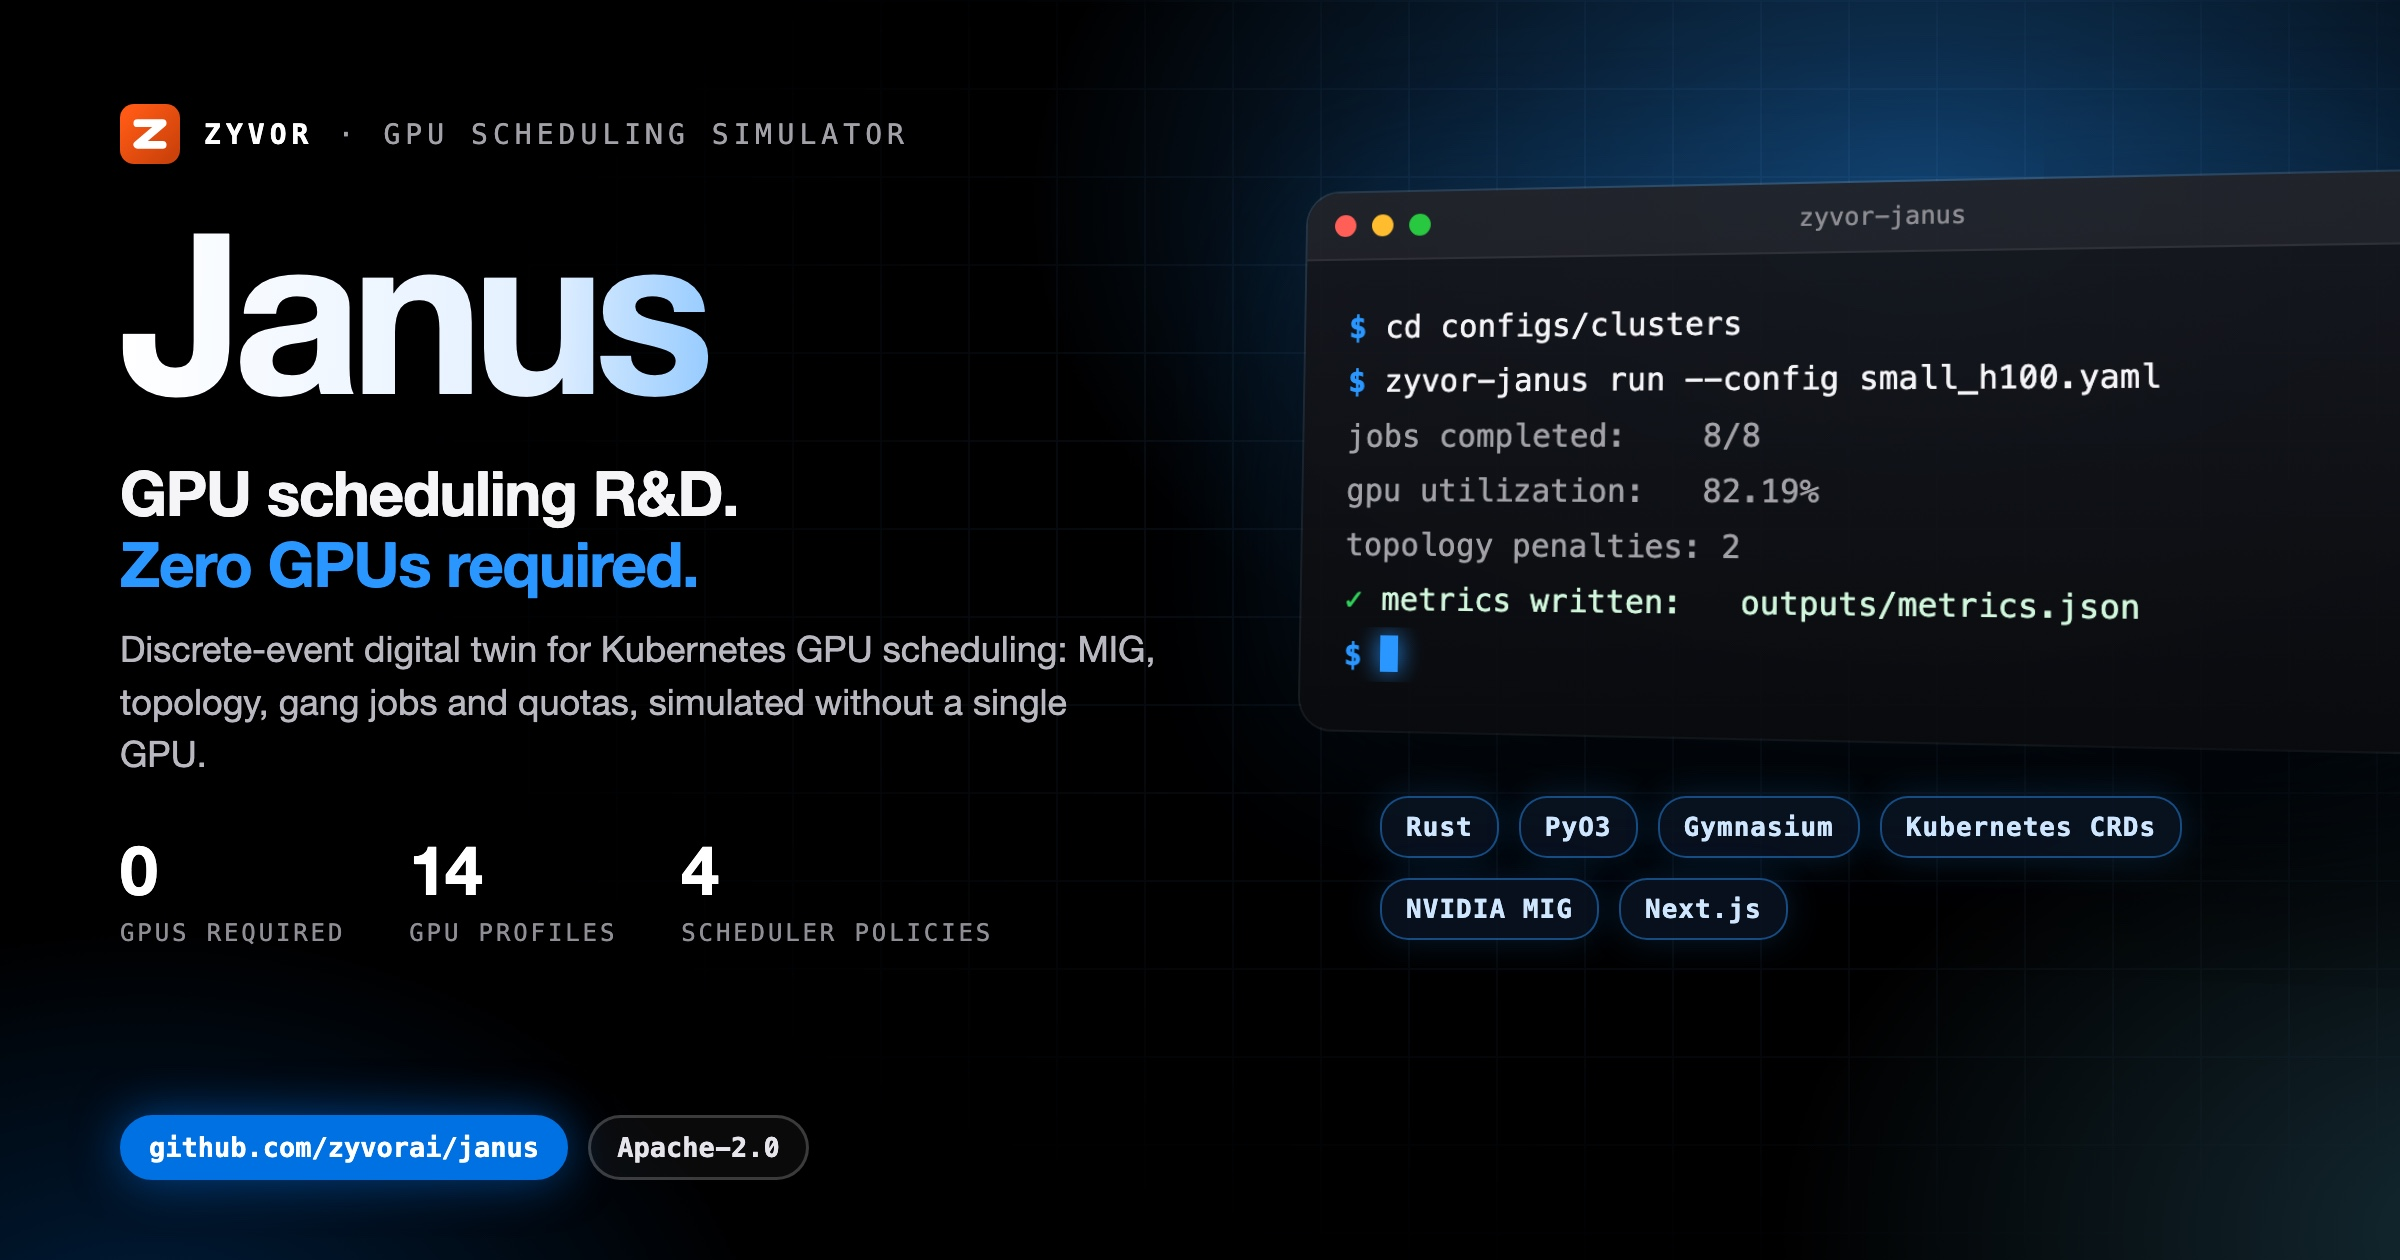
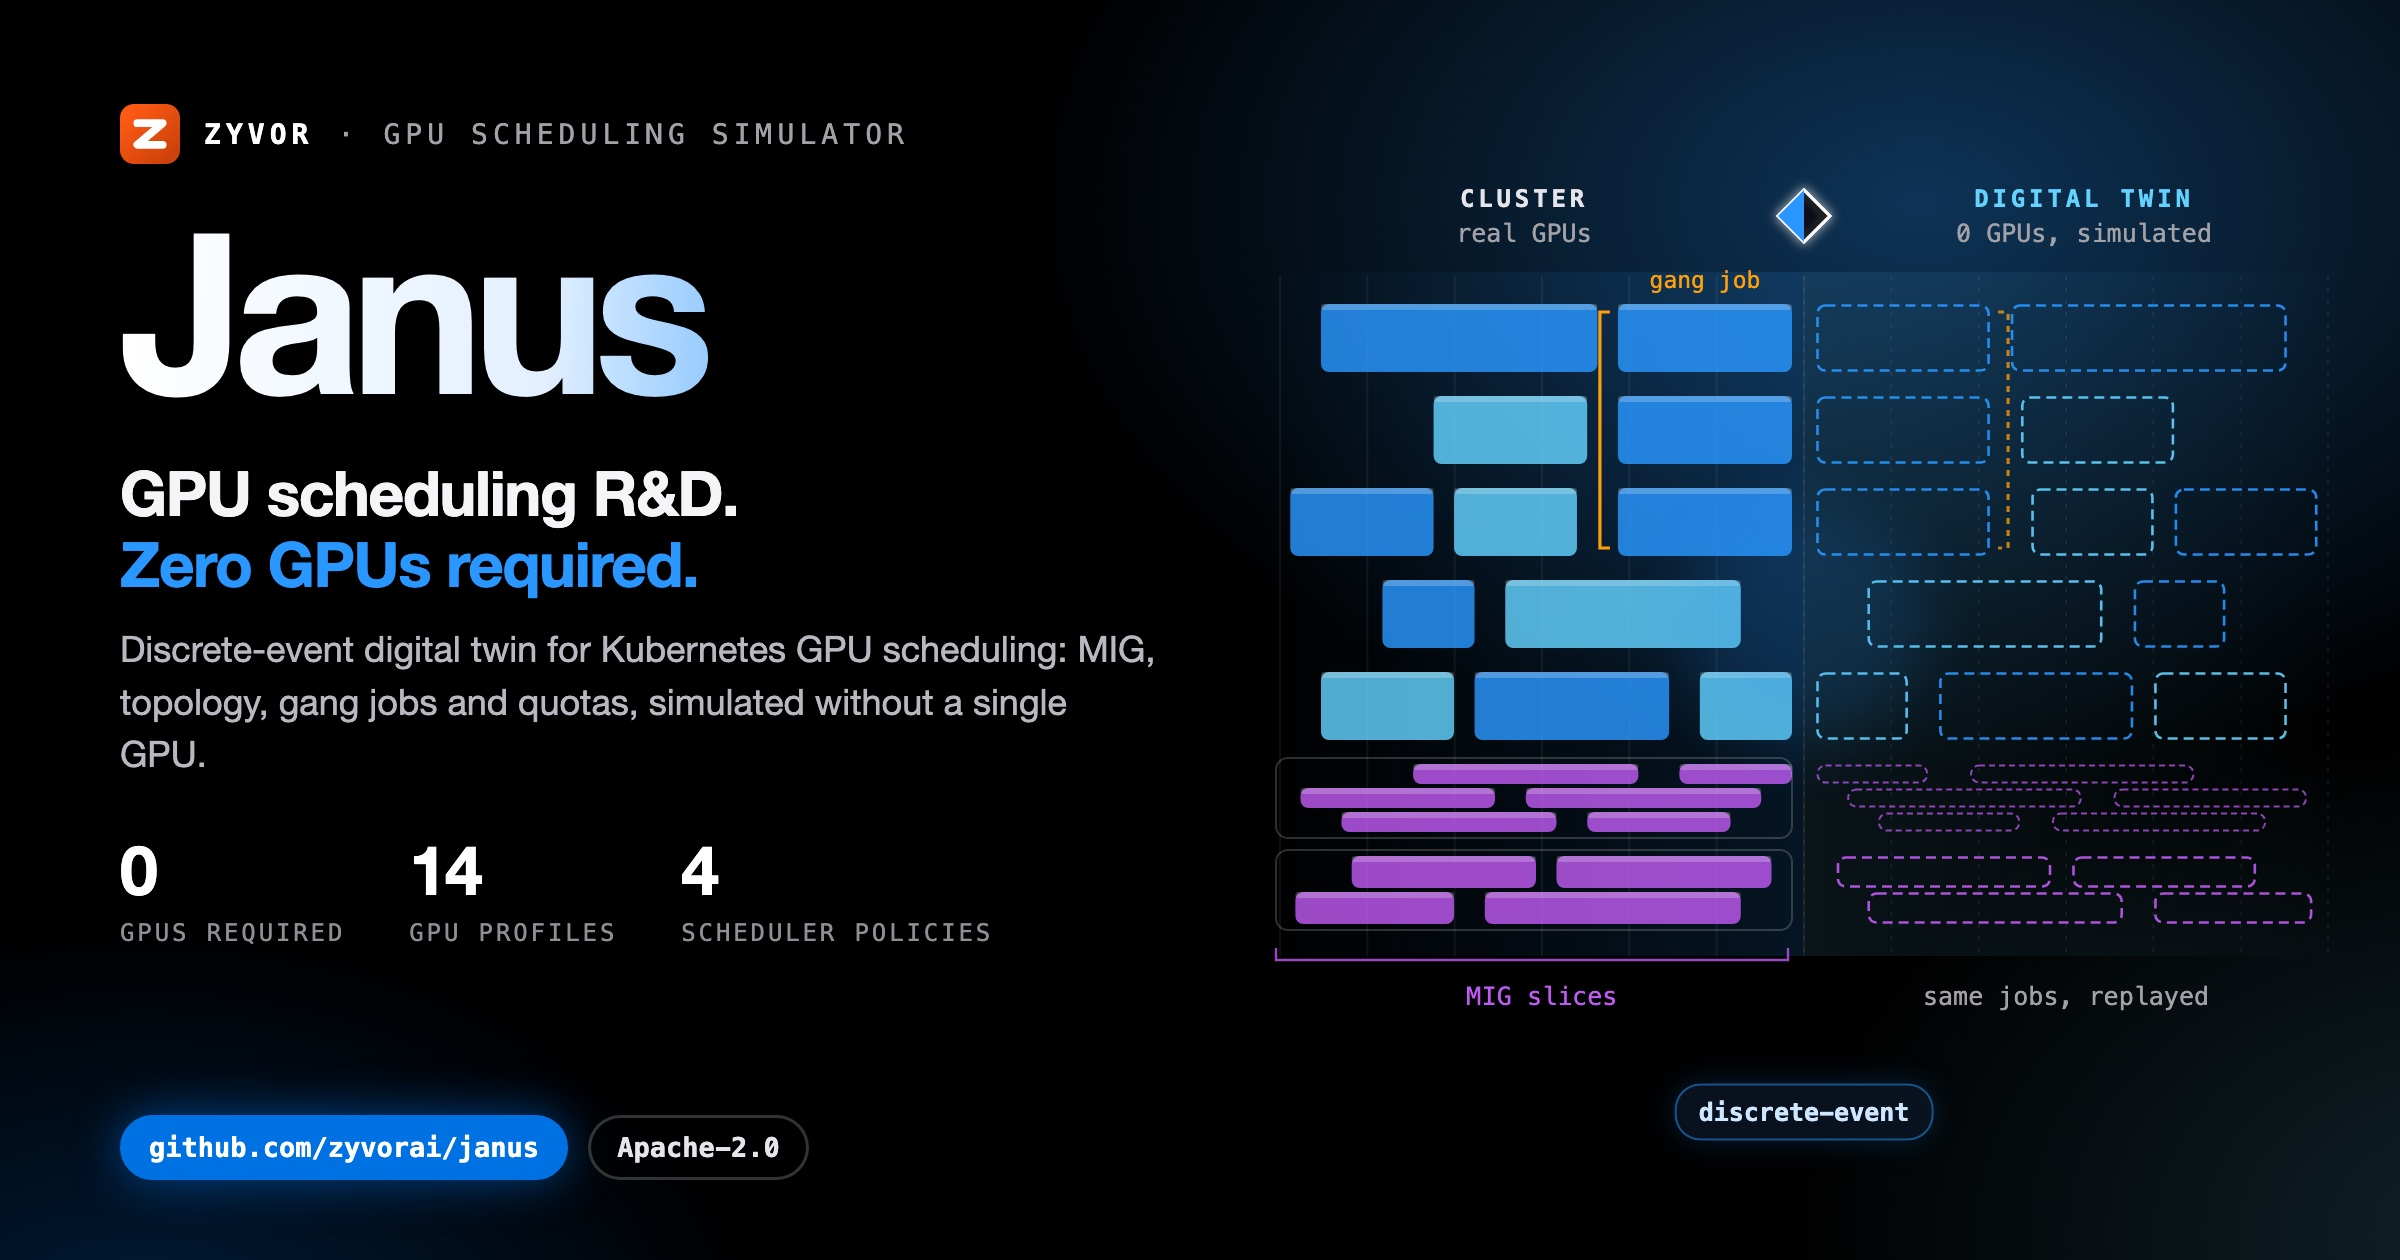
docs(social): unique illustrated hero card
Replace the shared terminal-window art with a motif drawn for this project;
same verified copy and stats on the left.

diff --git a/docs/social/janus-hero-dark.html b/docs/social/janus-hero-dark.html
@@ -8,58 +8,47 @@
   Build: ./docs/social/build-hero-dark.sh  ->  janus-hero-dark.jpg (2400x1260)
 -->
 <style>
-  :root { --blue:#0071e3; --signal:#2997ff; --cyan:#64d2ff; --green:#30d158; --amber:#ff9f0a;
+  :root { --blue:#0071e3; --signal:#2997ff; --cyan:#64d2ff; --green:#30d158; --amber:#ff9f0a; --red:#ff453a; --violet:#bf5af2;
     --sans:'SF Pro Display','Helvetica Neue',Helvetica,Arial,sans-serif; --mono:'SF Mono',Menlo,Consolas,monospace; }
   * { box-sizing:border-box; }
   html,body { margin:0; padding:0; }
   body { width:1200px; height:630px; overflow:hidden; color:#f5f5f7; font-family:var(--sans); position:relative; background:#000; }
   .aurora { position:absolute; inset:0;
-    background:radial-gradient(720px 460px at 80% 16%, rgba(41,151,255,.40), transparent 62%),
-               radial-gradient(600px 420px at 104% 98%, rgba(100,210,255,.20), transparent 60%),
+    background:radial-gradient(720px 460px at 80% 16%, rgba(41,151,255,.34), transparent 62%),
+               radial-gradient(600px 420px at 104% 98%, rgba(100,210,255,.16), transparent 60%),
                radial-gradient(520px 380px at 6% 110%, rgba(0,113,227,.28), transparent 60%); }
-  .grid { position:absolute; inset:0; opacity:.09;
-    background-image:linear-gradient(rgba(120,180,255,.9) 1px,transparent 1px),linear-gradient(90deg,rgba(120,180,255,.9) 1px,transparent 1px);
-    background-size:44px 44px; -webkit-mask-image:radial-gradient(900px 520px at 72% 42%, #000 18%, transparent 75%); }
-  .left { position:absolute; left:60px; top:52px; width:560px; z-index:3; }
+  .copy { position:absolute; left:60px; top:52px; width:560px; z-index:3; }
   .brand { display:flex; align-items:center; gap:12px; font-family:var(--mono); font-size:14px; letter-spacing:.18em; text-transform:uppercase; color:#a1a1a6; }
   .brand b { color:#fff; }
   .word { margin:20px 0 0; font-size:112px; line-height:.95; font-weight:800; letter-spacing:-.05em; white-space:nowrap;
     background:linear-gradient(92deg,#fff 0%,#e3f0ff 38%,var(--signal) 74%,var(--cyan) 100%); -webkit-background-clip:text; background-clip:text; color:transparent; padding-bottom:6px; }
   .tag { margin:14px 0 0; font-size:31px; line-height:1.15; font-weight:700; letter-spacing:-.02em; }
   .tag em { font-style:normal; color:var(--signal); }
-  .lede { margin:12px 0 0; font-size:18px; line-height:1.45; color:#b8b8bf; width:520px; }
+  .lede { margin:12px 0 0; font-size:18px; line-height:1.45; color:#b8b8bf; width:520px; text-shadow:0 1px 12px #000; }
   .stats { margin-top:24px; display:flex; gap:32px; }
   .stat b { display:block; font-size:34px; font-weight:800; letter-spacing:-.03em; color:#fff; }
   .stat span { font-family:var(--mono); font-size:12px; letter-spacing:.12em; text-transform:uppercase; color:#8e8e93; }
   .pill { position:absolute; left:60px; bottom:40px; display:flex; gap:10px; z-index:3; }
-  .pill span { font-family:var(--mono); font-size:13.5px; font-weight:700; padding:7px 13px; border-radius:18px; border:1.5px solid rgba(255,255,255,.2); color:#e5e5ea; background:rgba(255,255,255,.04); }
+  .pill span { font-family:var(--mono); font-size:13.5px; font-weight:700; padding:7px 13px; border-radius:18px; border:1.5px solid rgba(255,255,255,.2); color:#e5e5ea; background:rgba(0,0,0,.6); }
   .pill span.b { background:var(--blue); border-color:var(--blue); color:#fff; box-shadow:0 0 24px rgba(0,113,227,.55); }
-
-  .right { position:absolute; left:652px; top:96px; width:560px; z-index:2; }
-  .win { position:relative; width:560px; border-radius:16px; overflow:hidden; z-index:2;
-    background:linear-gradient(180deg, rgba(22,24,30,.94), rgba(10,11,14,.96));
-    box-shadow:0 50px 100px rgba(0,0,0,.75), 0 0 0 1px rgba(255,255,255,.14), 0 0 90px rgba(41,151,255,.22);
-    transform:perspective(1600px) rotateY(-14deg) rotateX(4deg); transform-origin:left center; }
-  .bar { height:34px; display:flex; align-items:center; gap:8px; padding:0 14px; background:rgba(255,255,255,.05); border-bottom:1px solid rgba(255,255,255,.07); }
-  .bar i { width:11px; height:11px; border-radius:50%; background:#ff5f57; } .bar i:nth-child(2){background:#febc2e} .bar i:nth-child(3){background:#28c840}
-  .bar em { margin-left:auto; margin-right:auto; font-style:normal; font-family:var(--mono); font-size:12px; color:#8e8e93; transform:translateX(-24px); }
-  .term { min-height:214px; padding:20px 22px 24px; font-family:var(--mono); font-size:15.5px; line-height:1.75; }
-  .l { white-space:pre; overflow:hidden; text-overflow:ellipsis; color:#f5f5f7; }
-  .l .p { color:var(--signal); font-weight:700; }
-  .l.out { color:#a1a1a6; }
-  .l.cm { color:#6e6e73; }
-  .l.ok { color:#d1f7dc; } .l.ok span { color:var(--green); font-weight:700; }
-  .l.warn { color:#ffe1b0; } .l.warn span { color:var(--amber); font-weight:700; }
-  .cur { display:inline-block; width:9px; height:18px; background:var(--signal); vertical-align:-3px; box-shadow:0 0 12px var(--signal); }
-  .chips { margin:34px 0 0 38px; width:480px; display:flex; flex-wrap:wrap; gap:10px; position:relative; z-index:3; }
-  .chips span { font-family:var(--mono); font-size:13px; font-weight:700; letter-spacing:.04em; padding:7px 12px; border-radius:14px;
-    color:#cfe6ff; background:rgba(10,20,35,.82); border:1px solid rgba(41,151,255,.45); box-shadow:0 0 18px rgba(41,151,255,.18); }
+  .art { position:absolute; left:520px; top:0; width:680px; height:630px; z-index:2; }
+  .art svg { display:block; }
+  #labels { position:absolute; inset:0; z-index:4; pointer-events:none; }
+  .lbl { position:absolute; font-family:var(--mono); font-size:12.5px; color:#a1a1a6; text-align:center; transform:translate(-50%,-50%); white-space:nowrap; }
+  .lbl b { display:block; font-size:12px; letter-spacing:.16em; text-transform:uppercase; color:#e5e5ea; }
+  .lbl span { display:block; margin-top:3px; }
+  .lbl.box { padding:7px 12px; border-radius:12px; background:rgba(8,10,14,.85); border:1px solid rgba(255,255,255,.14); }
+  .lbl.chip { padding:6px 11px; border-radius:13px; font-size:12.5px; font-weight:700; color:#cfe6ff; background:rgba(10,20,35,.85); border:1px solid rgba(41,151,255,.5); box-shadow:0 0 16px rgba(41,151,255,.2); }
+  .lbl.left { transform:translate(0,-50%); text-align:left; }
+  .lbl.right { transform:translate(-100%,-50%); text-align:right; }
+  .ok { color:var(--green) !important; } .warn { color:var(--amber) !important; } .bad { color:var(--red) !important; } .sig { color:var(--signal) !important; } .cy { color:var(--cyan) !important; } .vi { color:var(--violet) !important; }
 </style>
 </head>
 <body>
 <div class="aurora"></div>
-<div class="grid"></div>
-<div class="left">
+<div class="art"><svg id="art" width="680" height="630" viewBox="0 0 680 630" xmlns="http://www.w3.org/2000/svg"></svg></div>
+<div id="labels"></div>
+<div class="copy">
   <div class="brand"><svg viewBox="0 0 64 64" width="30" height="30" aria-hidden="true"><defs><linearGradient id="zb" x1="8" y1="8" x2="56" y2="56" gradientUnits="userSpaceOnUse"><stop offset="0" stop-color="#ff5a15"/><stop offset="1" stop-color="#cc420a"/></linearGradient></defs><rect width="64" height="64" rx="15" fill="url(#zb)"/><path d="M18.5,20.5 45.5,20.5 18.5,43.5 45.5,43.5" fill="none" stroke="#fff" stroke-width="8.3" stroke-linecap="round" stroke-linejoin="round"/></svg><b>Zyvor</b><span>&middot;</span><span>GPU scheduling simulator</span></div>
   <div class="word">Janus</div>
   <div class="tag">GPU scheduling R&amp;D.<br><em>Zero GPUs required.</em></div>
@@ -67,8 +56,96 @@
   <div class="stats"><div class="stat"><b>0</b><span>GPUs required</span></div><div class="stat"><b>14</b><span>GPU profiles</span></div><div class="stat"><b>4</b><span>scheduler policies</span></div></div>
 </div>
 <div class="pill"><span class="b">github.com/zyvorai/janus</span><span>Apache-2.0</span></div>
-<div class="right"><div class="win"><div class="bar"><i></i><i></i><i></i><em>zyvor-janus</em></div>
-<div class="term"><div class="l"><span class="p">$</span> cd configs/clusters</div><div class="l"><span class="p">$</span> zyvor-janus run --config small_h100.yaml</div><div class="l out">jobs completed:    8/8</div><div class="l out">gpu utilization:   82.19%</div><div class="l out">topology penalties: 2</div><div class="l ok"><span>&#10003;</span> metrics written:   outputs/metrics.json</div><div class="l"><span class="p">$</span> <i class="cur"></i></div></div></div>
-<div class="chips"><span>Rust</span><span>PyO3</span><span>Gymnasium</span><span>Kubernetes CRDs</span><span>NVIDIA MIG</span><span>Next.js</span></div></div>
+<script>
+var Z = (function () {
+  var NS = 'http://www.w3.org/2000/svg', svg = document.getElementById('art'), labels = document.getElementById('labels');
+  var seed = 20261004;
+  function rnd() { seed = (seed * 1103515245 + 12345) % 2147483648; return seed / 2147483648; }
+  function el(tag, a, parent) { var n = document.createElementNS(NS, tag); for (var k in a) n.setAttribute(k, a[k]); (parent || svg).appendChild(n); return n; }
+  function g(attrs) { return el('g', attrs || {}); }
+  function label(x, y, inner, cls, style) { var d = document.createElement('div'); d.className = 'lbl ' + (cls || ''); d.style.left = (520 + x) + 'px'; d.style.top = y + 'px'; if (style) d.setAttribute('style', d.getAttribute('style') + ';' + style); d.innerHTML = inner; labels.appendChild(d); return d; }
+  return { NS: NS, svg: svg, W: 680, H: 630, rnd: rnd, el: el, g: g, label: label,
+    reseed: function (s) { seed = s; },
+    c: { blue: '#0071e3', signal: '#2997ff', cyan: '#64d2ff', green: '#30d158', amber: '#ff9f0a', red: '#ff453a', violet: '#bf5af2', teal: '#40c8e0', indigo: '#5e5ce6', pink: '#ff375f', white: '#f5f5f7', grey: '#8e8e93' } };
+})();
+(function () {
+// Janus: two-faced GPU Gantt. Left, the real cluster as solid job bars; right, its simulated twin mirrored as wireframe. MIG slices and a gang job.
+var C = Z.c, ax = 382;
+var defs = Z.el('defs', {});
+defs.innerHTML = '<filter id="jngl" x="-50%" y="-50%" width="200%" height="200%"><feGaussianBlur stdDeviation="2.6" result="b"/><feMerge><feMergeNode in="b"/><feMergeNode in="SourceGraphic"/></feMerge></filter>' +
+  '<filter id="jnsf" x="-50%" y="-50%" width="200%" height="200%"><feGaussianBlur stdDeviation="16"/></filter>' +
+  '<linearGradient id="jnax" x1="0" y1="0" x2="0" y2="1"><stop offset="0" stop-color="#64d2ff" stop-opacity="0"/><stop offset=".5" stop-color="#ffffff"/><stop offset="1" stop-color="#64d2ff" stop-opacity="0"/></linearGradient>' +
+  '<linearGradient id="jnfadeL" x1="1" y1="0" x2="0" y2="0"><stop offset="0" stop-color="#2997ff" stop-opacity=".14"/><stop offset="1" stop-color="#2997ff" stop-opacity="0"/></linearGradient>' +
+  '<linearGradient id="jnfadeR" x1="0" y1="0" x2="1" y2="0"><stop offset="0" stop-color="#64d2ff" stop-opacity=".10"/><stop offset="1" stop-color="#64d2ff" stop-opacity="0"/></linearGradient>';
+var top = 152, rowH = 46, span = 262;
+// rows: 6 GPUs, two of them sliced into MIG lanes
+var rows = [{ n: 1 }, { n: 1 }, { n: 1 }, { n: 1 }, { n: 1 }, { n: 3 }, { n: 2 }];
+var jobs = [
+  [[0.0, 0.34, 'b', 'g'], [0.38, 0.92, 'b']],
+  [[0.0, 0.34, 'b', 'g'], [0.40, 0.70, 'c']],
+  [[0.0, 0.34, 'b', 'g'], [0.42, 0.66, 'c'], [0.70, 0.98, 'b']],
+  [[0.10, 0.56, 'c'], [0.62, 0.80, 'b']],
+  [[0.0, 0.18, 'c'], [0.24, 0.62, 'b'], [0.66, 0.92, 'c']],
+  [[0.0, 0.22, 'v'], [0.06, 0.52, 'v'], [0.12, 0.40, 'v'], [0.30, 0.74, 'v'], [0.58, 0.96, 'v'], [0.46, 0.88, 'v']],
+  [[0.04, 0.46, 'v'], [0.10, 0.60, 'v'], [0.50, 0.86, 'v'], [0.66, 0.97, 'v']]
+];
+var colOf = { b: C.signal, c: C.cyan, v: C.violet };
+Z.el('rect', { x: ax - span - 10, y: top - 16, width: span + 10, height: rows.length * rowH + 20, fill: 'url(#jnfadeL)' });
+Z.el('rect', { x: ax, y: top - 16, width: span + 10, height: rows.length * rowH + 20, fill: 'url(#jnfadeR)' });
+// time grid
+for (var k = 0; k <= 6; k++) {
+  var dx = span * k / 6;
+  [-1, 1].forEach(function (s) {
+    Z.el('line', { x1: ax + s * dx, y1: top - 14, x2: ax + s * dx, y2: top + rows.length * rowH + 4, stroke: 'rgba(255,255,255,.06)', 'stroke-dasharray': s > 0 ? '2 4' : 'none' });
+  });
+}
+var gangL = [], gangR = [];
+rows.forEach(function (row, i) {
+  var y = top + i * rowH, h = rowH - 12;
+  var lanes = jobs[i];
+  // sliced rows: lanes stacked inside one GPU row
+  lanes.forEach(function (j, li) {
+    var ly = y, lh = h;
+    if (row.n > 1) { var sub = li % row.n; lh = (h - (row.n - 1) * 2) / row.n; ly = y + sub * (lh + 2); }
+    var col = colOf[j[2]];
+    [-1, 1].forEach(function (s) {
+      var a = ax + s * (6 + j[0] * (span - 6)), b = ax + s * (6 + j[1] * (span - 6));
+      var x = Math.min(a, b), w = Math.abs(b - a);
+      if (s < 0) {
+        Z.el('rect', { x: x, y: ly, width: w, height: lh, rx: 4, fill: col, opacity: .82 });
+        Z.el('rect', { x: x, y: ly, width: w, height: Math.min(3, lh / 3), rx: 1.5, fill: '#fff', opacity: .22 });
+      } else {
+        Z.el('rect', { x: x + .75, y: ly + .75, width: w - 1.5, height: lh - 1.5, rx: 4, fill: 'none', stroke: col, 'stroke-width': lh < 12 ? 1 : 1.3, 'stroke-dasharray': lh < 12 ? '3 2' : '5 3', opacity: lh < 12 ? .75 : .9 });
+      }
+      if (j[3] === 'g') (s < 0 ? gangL : gangR).push([x, ly, w, lh]);
+    });
+  });
+  if (row.n > 1) {
+    Z.el('rect', { x: ax - span - 2, y: y - 3, width: span - 4, height: h + 6, rx: 6, fill: 'none', stroke: 'rgba(255,255,255,.18)' });
+  }
+});
+// gang job: linked across three GPUs (solid on left, ghost on right)
+function gang(list, s) {
+  var x = s < 0 ? list[0][0] - 9 : list[0][0] + list[0][2] + 9, y0 = list[0][1] + 4, y1 = list[list.length - 1][1] + list[list.length - 1][3] - 4;
+  Z.el('path', { d: 'M' + (x - s * 5) + ',' + y0 + ' L' + x + ',' + y0 + ' L' + x + ',' + y1 + ' L' + (x - s * 5) + ',' + y1, fill: 'none', stroke: C.amber, 'stroke-width': 1.6, opacity: s < 0 ? 1 : .75, 'stroke-dasharray': s < 0 ? 'none' : '3 3' });
+}
+// the twin axis
+Z.el('line', { x1: ax, y1: 70, x2: ax, y2: 560, stroke: 'url(#jnax)', 'stroke-width': 2, filter: 'url(#jngl)' });
+Z.el('circle', { cx: ax, cy: top + rows.length * rowH / 2, r: 60, fill: C.signal, opacity: .14, filter: 'url(#jnsf)' });
+// mirror markers on the axis
+var my = top - 44;
+Z.el('path', { d: 'M' + ax + ',' + (my - 13) + ' L' + (ax + 13) + ',' + my + ' L' + ax + ',' + (my + 13) + ' L' + (ax - 13) + ',' + my + 'Z', fill: 'rgba(6,10,18,.95)', stroke: '#fff', 'stroke-width': 1.6, filter: 'url(#jngl)' });
+Z.el('path', { d: 'M' + ax + ',' + (my - 13) + ' L' + (ax - 13) + ',' + my + ' L' + ax + ',' + (my + 13) + 'Z', fill: C.signal });
+var rb = top + rows.length * rowH - 6;
+Z.el('path', { d: 'M' + (ax - span - 2) + ',' + (rb + 6) + ' L' + (ax - span - 2) + ',' + (rb + 12) + ' L' + (ax - 8) + ',' + (rb + 12) + ' L' + (ax - 8) + ',' + (rb + 6), fill: 'none', stroke: C.violet, 'stroke-width': 1.2, opacity: .8 });
+Z.label(ax - 140, my, '<b>cluster</b><span>real GPUs</span>');
+Z.label(ax + 140, my, '<b class="cy">digital twin</b><span>0 GPUs, simulated</span>');
+Z.label(ax - span / 2, rb + 30, '<span class="vi" style="margin:0">MIG slices</span>');
+Z.label(ax - 6 - 0.17 * (span - 6), top - 12, '<span class="warn" style="margin:0;font-size:11.5px">gang job</span>');
+Z.label(ax + span / 2, rb + 30, '<span style="margin:0">same jobs, replayed</span>');
+Z.label(ax, 556, 'discrete-event', 'chip');
+gang(gangL, -1); gang(gangR, 1);
+})();
+</script>
 </body>
 </html>
